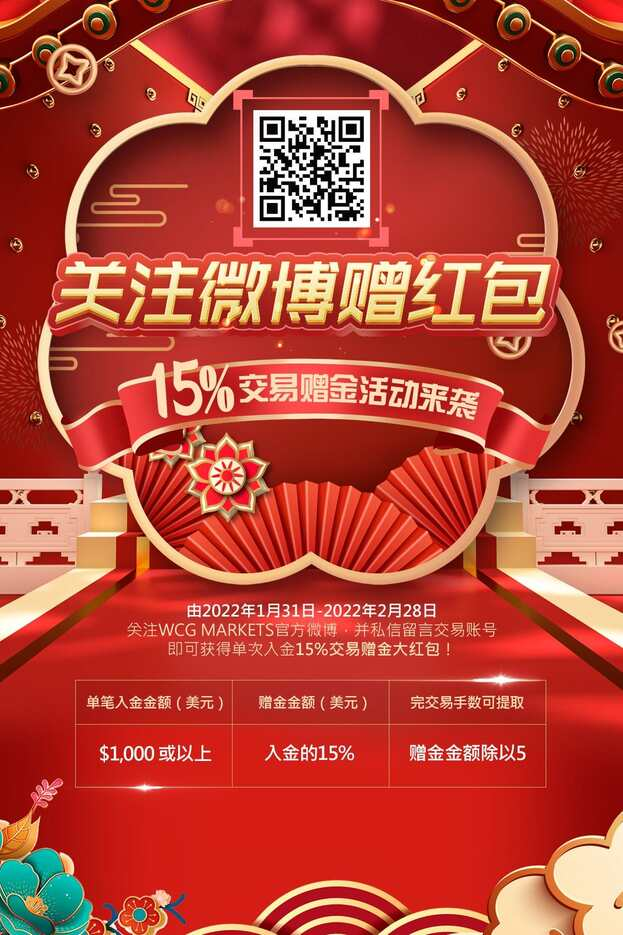
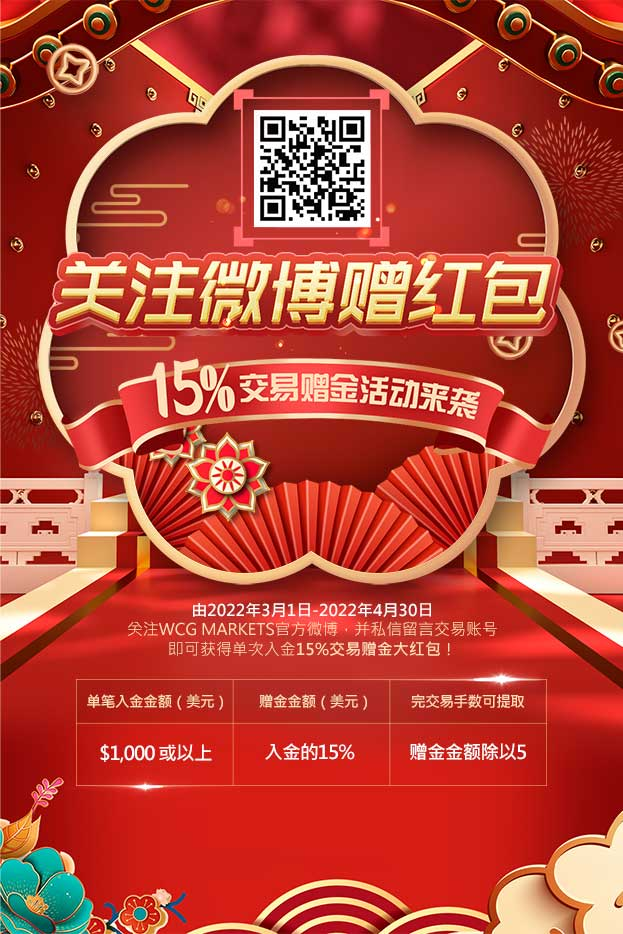
refactor(wcg15zj): update activity image, and modify date

diff --git a/src/components/Banner/WCG15ZJ.tsx b/src/components/Banner/WCG15ZJ.tsx
@@ -89,7 +89,7 @@ const WCG15ZJ: React.FC<{}> = () => {
               display={{ base: 'none', md: 'block' }}
             >
               <Box color="white" fontSize="28px" fontWeight="700">
-                由2022年1月31日-2022年2月28日
+                由2022年3月1日-2022年4月30日
               </Box>
               <Box color="yellow" fontSize="16px">
                 关注WCG MARKETS官方微博，并私信留言交易账号
